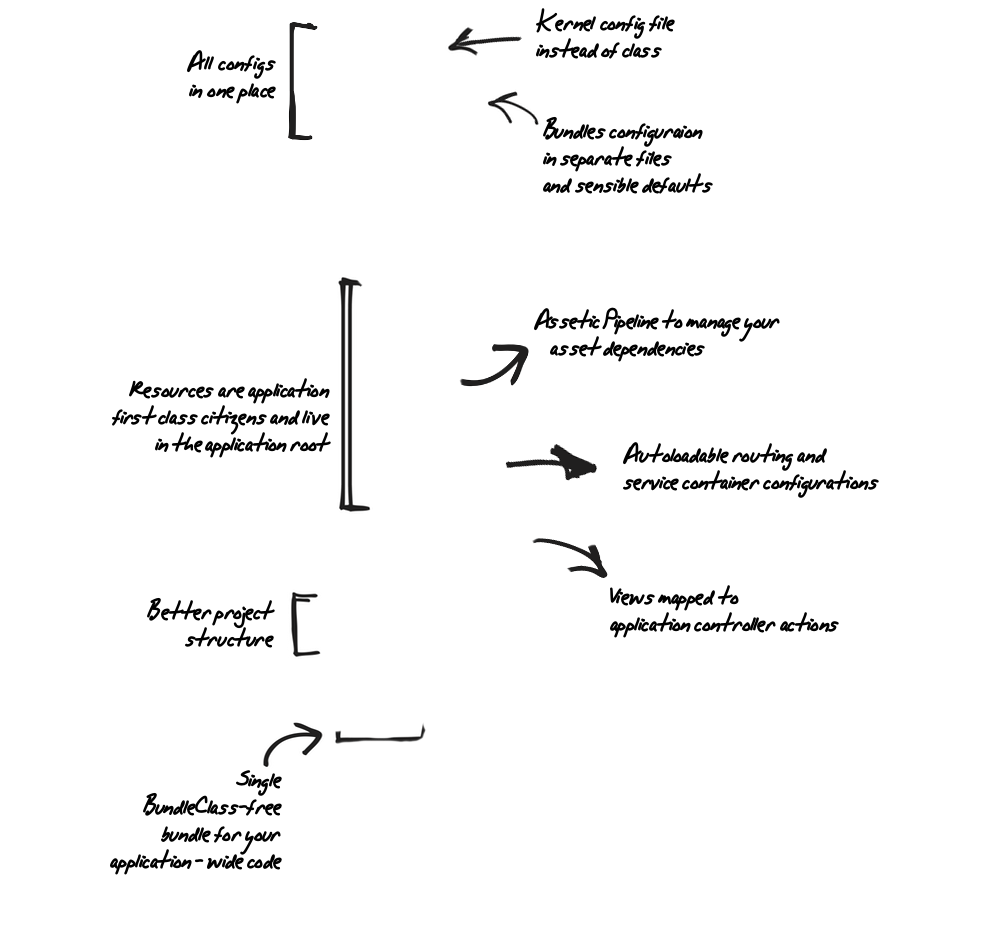
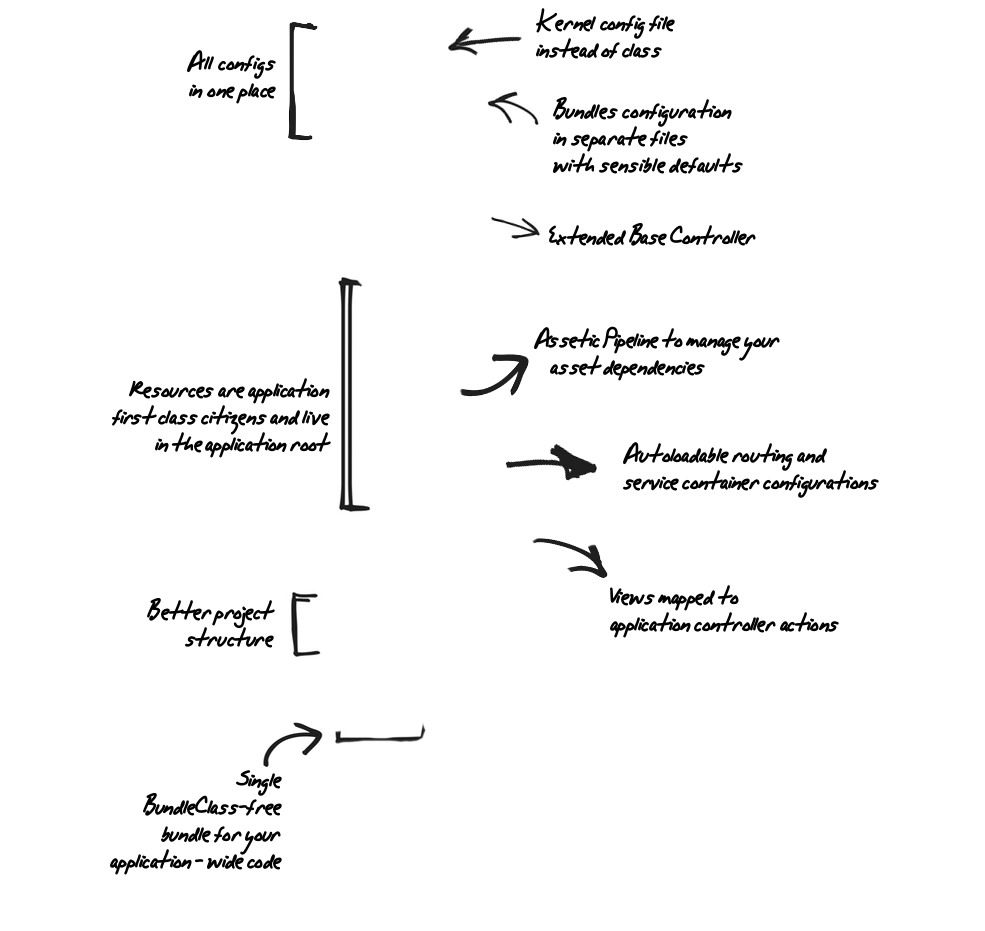
added missing base controller link from overview

Changed region(s): [[0.5482, 0.0934, 0.7614, 0.218], [0.4569, 0.3115, 0.7919, 0.4361], [0.5178, 0.218, 0.7614, 0.2803]]

diff --git a/src/KnpRad/public/css/overview.scss b/src/KnpRad/public/css/overview.scss
@@ -37,7 +37,7 @@
 }
 
 #overview {
-  width:910px;
+  width:990px;
   padding-top:60px;
   padding-bottom:60px;
   margin:0px auto;
@@ -65,11 +65,14 @@
       @include sprite(440px, 10px, 280px, 54px); left:115px; top:-10px;
     }
     &.bundles {
-      @include sprite(480px, 84px, 245px, 120px); left:155px; top:68px;
+      @include sprite(480px, 84px, 264px, 120px); left:155px; top:68px;
     }
     &.app-bundle {
       @include sprite(65px, 715px, 364px, 170px); left:-260px; top:145px;
       z-index:3;
+    }
+    &.base-controller {
+      @include sprite(470px, 205px, 295px, 55px); left:185px; top:192px;
     }
     &.resources {
       @include sprite(108px, 274px, 266px, 244px); left:-220px; top:255px;
